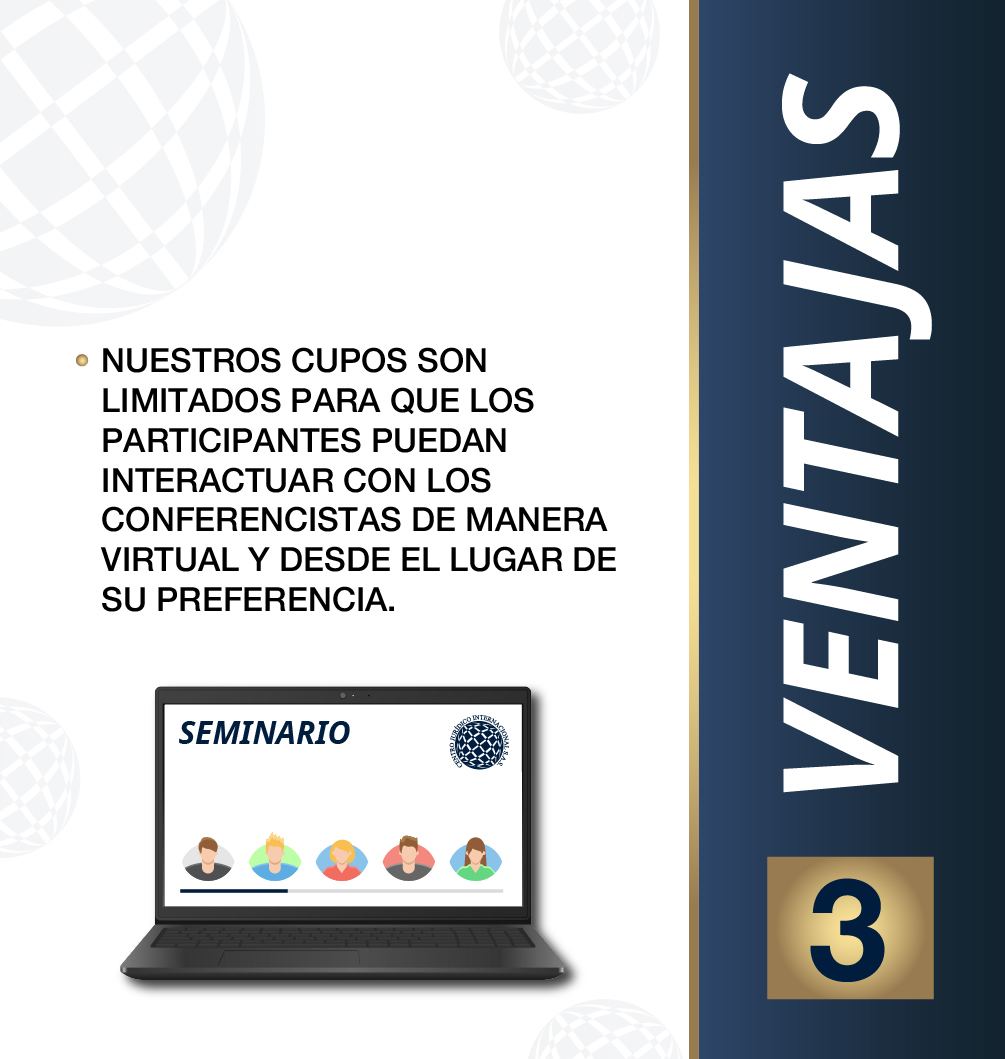
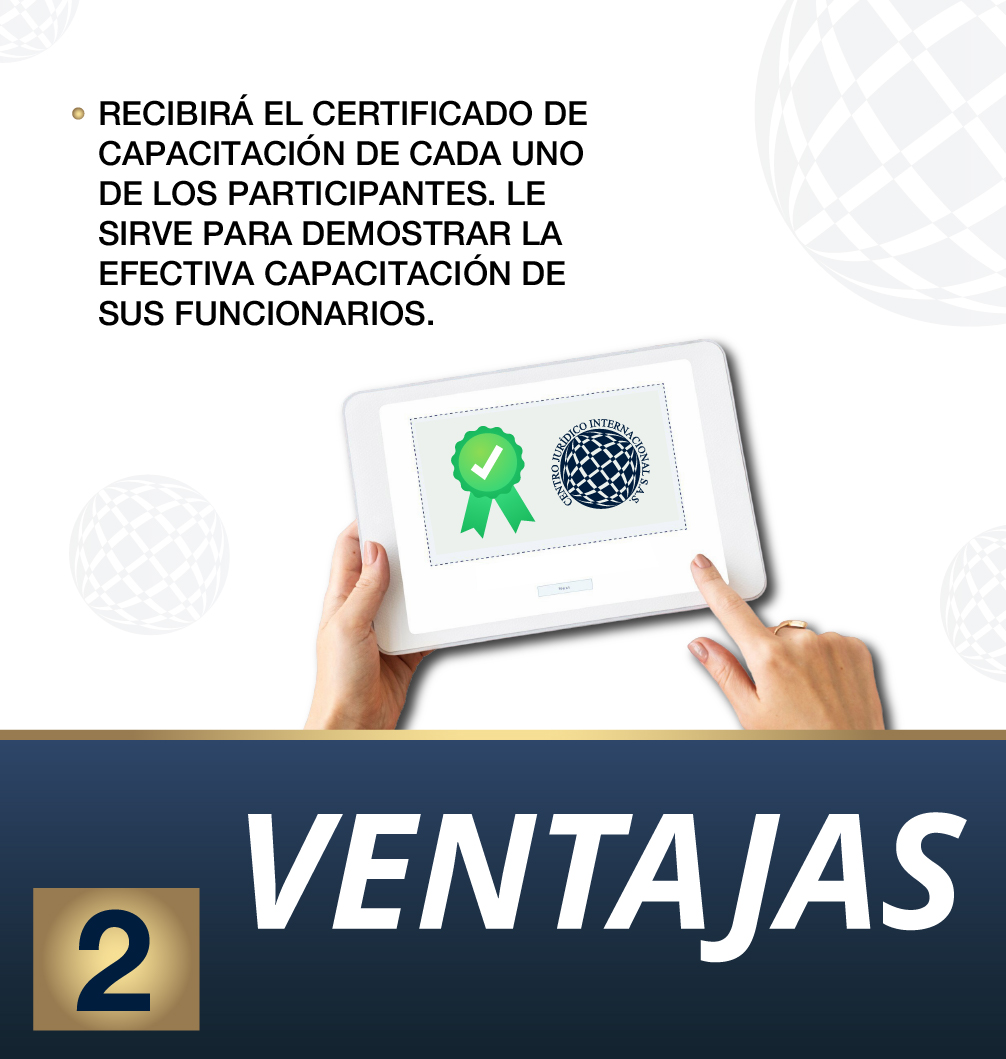
cambio al slider

diff --git a/style.css b/style.css
@@ -365,7 +365,7 @@ button:active{ transform: translateY(1px) scale(.995); }
   margin-bottom: 14px;
 }
 
-/* Footer */
+/* Footer simple antiguo (texto gris bajo) */
 footer{
   text-align:center;
   color: var(--muted);
@@ -439,8 +439,6 @@ footer{
 #btnCerrarAlerta:hover{ filter: brightness(1.02); }
 #btnCerrarAlerta:active{ transform: translateY(1px) scale(.995); }
 
-
-
 #comentarios-google {
   max-width: 1100px;
   margin: 0 auto;
@@ -454,8 +452,7 @@ footer{
   text-align: center;
 }
 
-
-/* FOOTER */
+/* FOOTER nuevo verde */
 .footer {
   background-color:var(--verde);
   color: #fff;
@@ -532,10 +529,199 @@ footer{
   transform: scale(1.2);
 }
 
-/* RESPONSIVE */
+/* =========================
+   RESPONSIVE MEJORADO
+   ========================= */
+
+/* ====== TABLET / PANTALLAS MEDIAS ====== */
+@media (max-width: 992px) {
+
+  /* Encabezado */
+  .top-bar .container {
+    flex-direction: row;
+    flex-wrap: wrap;
+    justify-content: center;
+    text-align: center;
+    gap: 10px;
+    padding: 8px 10px;
+  }
+
+  .top-bar .container img {
+    width: 130px;
+    max-width: 45%;
+  }
+
+  .top-bar .container span {
+    font-size: 14px;
+  }
+
+  /* Hero un poco más compacto */
+  .hero {
+    height: 70vh;
+    padding: 40px 0;
+  }
+
+  .hero-content h1 {
+    font-size: clamp(1.6rem, 3vw, 2.3rem);
+  }
+
+  .hero-content p {
+    margin-top: -80px;
+    margin-bottom: 18px;
+    font-size: 1.2rem;
+  }
+
+  .hero-benefits {
+    max-width: 90%;
+    font-size: 0.95rem;
+  }
+
+  /* Form shell más adaptable */
+  .container.form-shell {
+    width: min(95vw, 900px);
+    margin-top: -120px;
+  }
+
+  .form-shell {
+    height: auto;
+    min-height: 460px;
+  }
+
+  .form-shell .left {
+    padding: 40px;
+  }
+
+  .form-shell .right {
+    padding: 32px 24px;
+  }
+
+  .cards-conferencistas {
+    grid-template-columns: repeat(2, 1fr);
+  }
+
+  .card-conf img {
+    height: 320px;
+  }
+}
+
+/* ====== MÓVIL ====== */
 @media (max-width: 768px) {
+
+  /* Hero más alto y cómodo en móvil */
+  .hero {
+    height: auto;
+    min-height: 80vh;
+    padding: 60px 0 40px;
+  }
+
+  .hero-content {
+    padding: 0 16px;
+  }
+
+  .hero-content p {
+    margin-top: -20px;
+    margin-bottom: 16px;
+    font-size: 1.05rem;
+  }
+
+  .hero-content h1 {
+    font-size: 1.5rem;
+  }
+
+  .hero-benefits li {
+    font-size: 0.9rem;
+    padding-left: 34px;
+  }
+
+  .hero-benefits li::before {
+    width: 22px;
+    height: 22px;
+  }
+
+  /* FORMULARIO: columna, full width */
+  .container.form-shell {
+    margin-top: -60px;
+    width: 94vw;
+  }
+
+  .form-shell {
+    flex-direction: column;
+    height: auto;
+  }
+
+  .form-shell .left,
+  .form-shell .right {
+    width: 100%;
+    height: auto;
+  }
+
+  .form-shell .left {
+    min-height: 220px;
+    padding: 28px 20px;
+  }
+
+  .form-shell .dots {
+    bottom: 14px;
+  }
+
+  .form-shell .right {
+    padding: 24px 16px 30px;
+  }
+
+  .form-shell form {
+    box-shadow: none;
+    border-radius: 16px;
+    padding: 18px;
+  }
+
+  /* Contenido principal más estrecho */
+  .contenido,
+  .promocion,
+  .video,
+  .conferencistas,
+  .inversion {
+    width: 94vw;
+    margin-left: auto;
+    margin-right: auto;
+  }
+
+  .bloque-temario {
+    grid-template-columns: 1fr; /* Temario a una columna */
+  }
+
+  /* Conferencistas: una sola columna */
+  .cards-conferencistas {
+    grid-template-columns: 1fr;
+  }
+
+  .card-conf img {
+    height: 260px;
+  }
+
+  /* Inversión más pequeño en móvil */
+  .inversion p {
+    font-size: 2rem;
+  }
+
+  /* Video full width con menos radio */
+  .video-container {
+    border-radius: 16px;
+  }
+
+  /* Google Reviews */
+  #comentarios-google {
+    width: 94vw;
+    padding: 30px 10px;
+  }
+
+  #comentarios-google h2 {
+    font-size: 1.4rem;
+  }
+
+  /* Footer móvil */
   .footer {
     text-align: center;
+    padding: 40px 16px 30px;
   }
 
   .footer-container {
@@ -545,5 +731,59 @@ footer{
 
   .footer-column {
     max-width: 400px;
+  }
+
+  .footer-column h3 {
+    font-size: 0.95rem;
+  }
+
+  .footer-column p {
+    font-size: 0.85rem;
+  }
+
+  .social-icons a {
+    font-size: 1.4rem;
+    margin: 0 6px;
+  }
+}
+
+/* ====== MÓVIL PEQUEÑO ====== */
+@media (max-width: 480px) {
+
+  .hero-content h1 {
+    font-size: 1.3rem;
+  }
+
+  .hero-content p {
+    font-size: 0.95rem;
+  }
+
+  .hero-benefits li {
+    font-size: 0.85rem;
+  }
+
+  .form-shell .left {
+    min-height: 190px;
+  }
+
+  input[type="text"],
+  input[type="email"],
+  input[type="tel"],
+  select {
+    font-size: 13px;
+    padding: 12px 12px;
+  }
+
+  button {
+    font-size: 14px;
+    padding: 12px 14px;
+  }
+
+  .inversion p {
+    font-size: 1.6rem;
+  }
+
+  .card-conf img {
+    height: 220px;
   }
 }

diff --git a/index.html b/index.html
@@ -51,6 +51,7 @@
         <div class="dot active"></div>
         <div class="dot"></div>
         <div class="dot"></div>
+        <div class="dot"></div>
       </div>
     </div>
 
@@ -225,7 +226,7 @@
   <h2 style="margin-bottom:20px;">Opiniones de nuestros clientes</h2>
 
   <!-- Trustindex Google Reviews -->
-  <script defer async src='https://cdn.trustindex.io/loader-cert.js?611a29e5898d0717fb8670585d5'></script>
+  <script defer async src="https://cdn.trustindex.io/loader.js?be569b55743f608af856d90b93d"></script>
 </section>
 
 

diff --git a/script.js b/script.js
@@ -40,7 +40,8 @@ document.addEventListener('DOMContentLoaded', () => {
   const fondos = [
     "url('img/slideruno.jpg')",
     "url('img/sliderdos.jpg')",
-    "url('img/slidertres.jpg')"
+    "url('img/slidertres.jpg')",
+    "url('img/slidercuatro.jpg')"
   ];
 
   if (left && dots.length === fondos.length && fondos.length > 0) {
